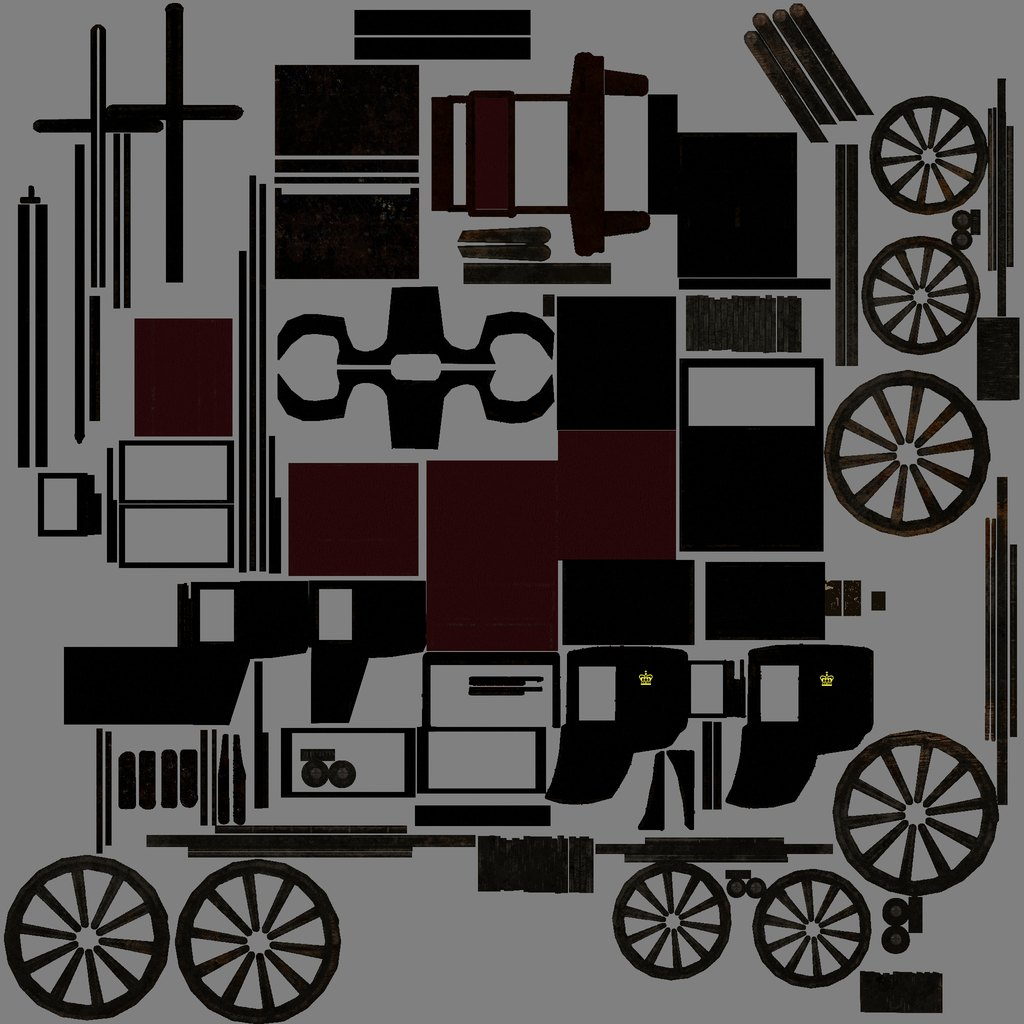
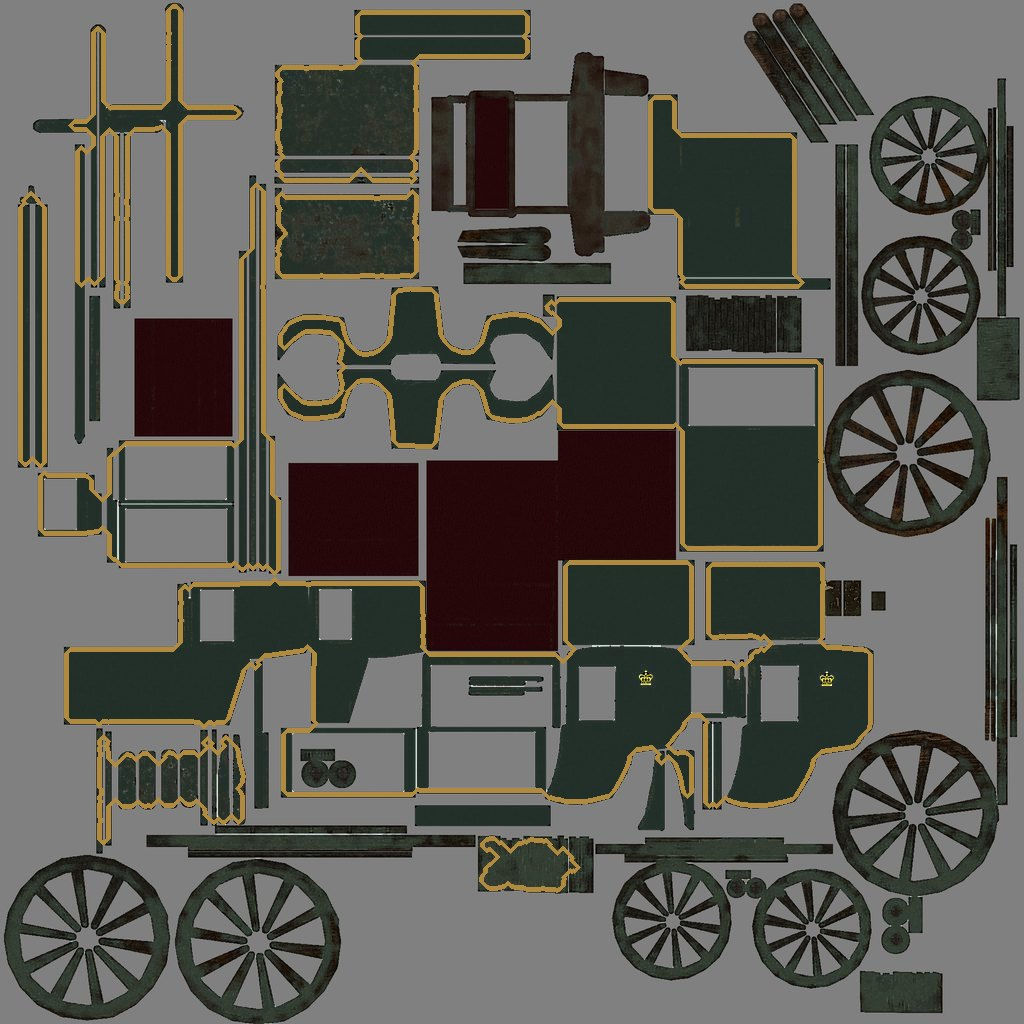
1760 coach reads from the chase camera: the flat black lacquer is a dark bottle-green and the big panels have a thin brass border (scripts/models/brougham-paint.py repaints the albedo; seats, wheels and the crown keep their colours).
Claude-Session: https://claude.ai/code/session_019bbuCUMthGYcKwDWvqWsA3

diff --git a/scripts/models/brougham-paint.py b/scripts/models/brougham-paint.py
@@ -1,0 +1,22 @@
+"""Repaints the 1760 coach texture so it reads from the chase camera: the flat black lacquer panels become a dark
+bottle-green, and each large panel gets a thin brass border. Run once on the albedo brougham.py writes:
+
+  python3 scripts/models/brougham-paint.py public/models/carriage/brougham.jpg public/models/carriage/brougham.jpg
+"""
+import sys, numpy as np
+from PIL import Image
+from scipy import ndimage
+src, out = sys.argv[1:3]
+a = np.asarray(Image.open(src).convert('RGB')).astype(np.float32)
+v = a.max(2)
+dark = ndimage.median_filter(v, 5)
+w = np.clip((26 - dark) / 12, 0, 1)[..., None]    # the lacquer, eased in: the oxblood seats, brown wheels and grey background stay
+panel = ndimage.binary_opening(ndimage.binary_fill_holes(ndimage.binary_closing(dark < 16, iterations=4)), iterations=6)
+lab, n = ndimage.label(panel); size = ndimage.sum(panel, lab, range(1, n + 1))
+panel = np.isin(lab, 1 + np.nonzero(size > 4000)[0])         # broad painted panels only, not rods, straps or wheel grain
+inner = ndimage.binary_erosion(panel, iterations=5)
+trim = panel & ~inner                                          # a band just inside each panel's edge
+a = a * (1 + .4 * w) + w * np.array([34, 46, 40], np.float32)  # dark bottle-green, keeping the texture's grain
+a[trim] = np.array([176, 138, 62], np.float32)                 # brass
+Image.fromarray(np.clip(a, 0, 255).astype(np.uint8)).save(out, quality=86)
+print('trim px', int(trim.sum()))
